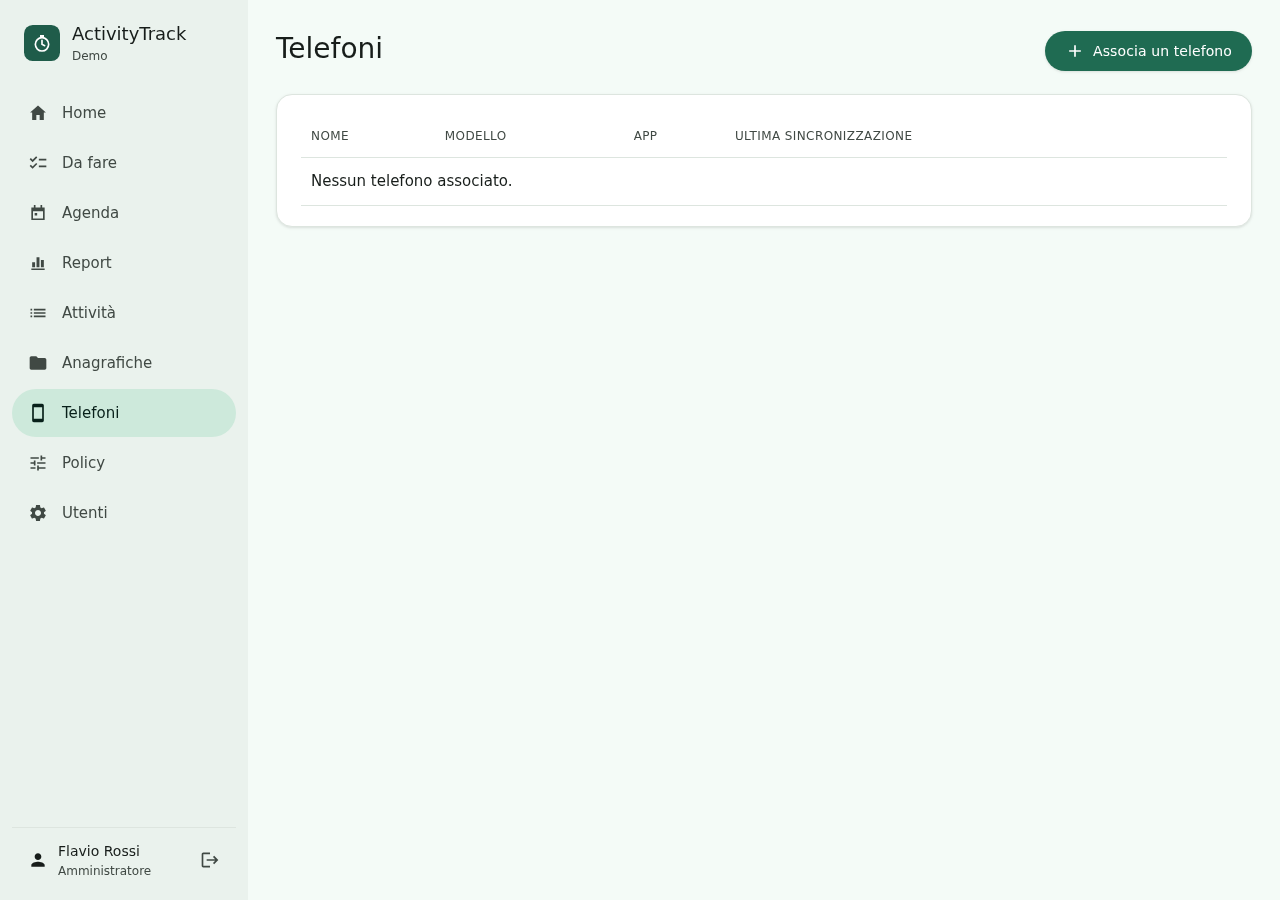
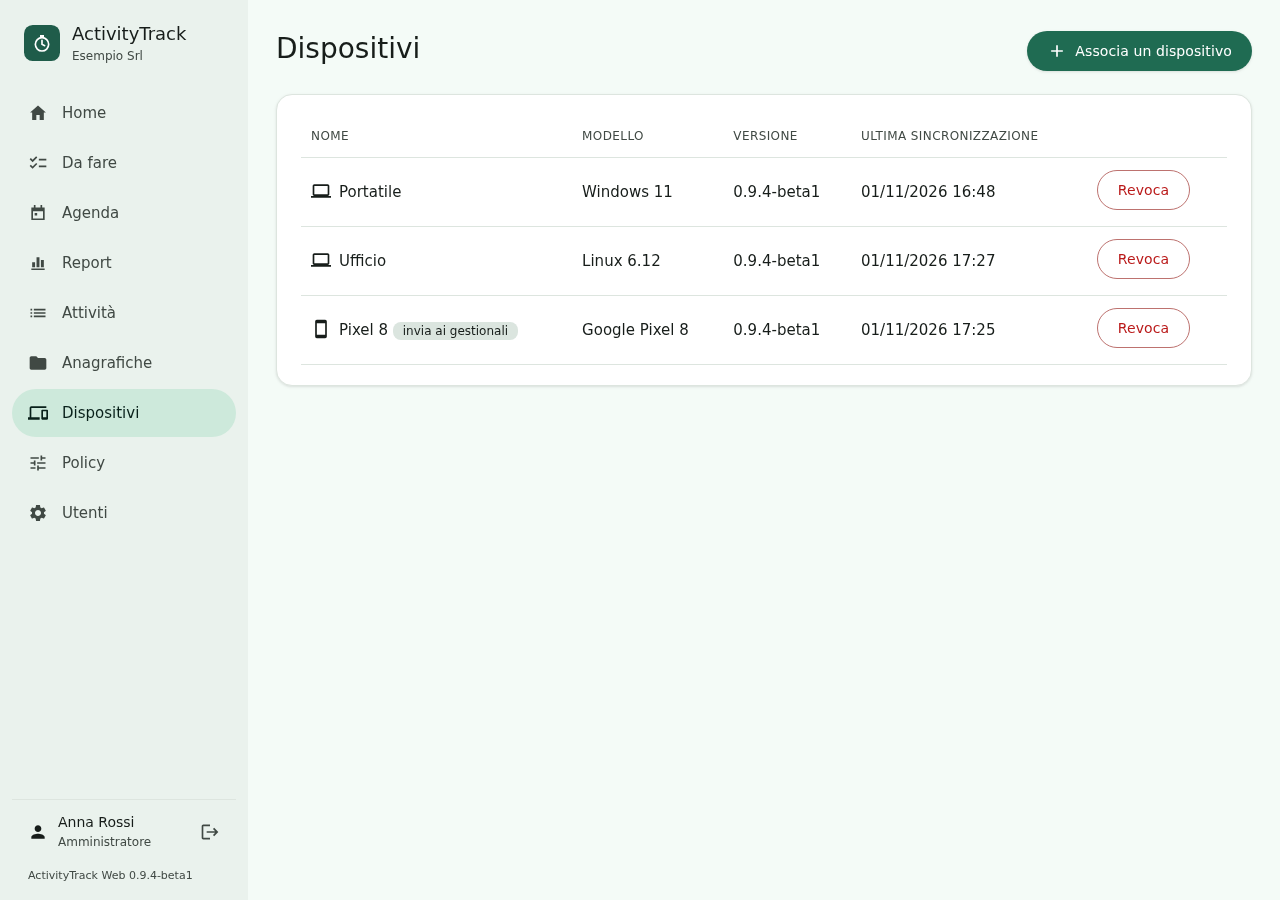
Release 0.9.4-beta1
The devices of #32 (ActivityTrack Desktop), with the beta of the app
and of the desktop. The Dispositivi screenshot of the admin manual is
made again on sample data; an icon in a list's first cell keeps its
distance from the text.

diff --git a/server/web/static/web/app.css b/server/web/static/web/app.css
@@ -149,6 +149,7 @@ table.list th, table.list td { text-align: left; padding: 12px 10px; border-bott
 table.list th { color: var(--muted); font-weight: 500; font-size: 12px; text-transform: uppercase; letter-spacing: .4px; }
 table.list tfoot th { font-size: 14px; text-transform: none; color: var(--text); border-bottom: 0; }
 table.list td form { display: inline-block; margin: 0 4px 4px 0; }
+table.list td > .i:first-child { margin-right: 8px; }
 table.totals td, table.totals th { white-space: nowrap; font-variant-numeric: tabular-nums; }
 tr.dim { opacity: .55; }
 .card > table.list:first-child, .card > h2 + table.list { margin-top: 0; }

diff --git a/server/atweb/__init__.py b/server/atweb/__init__.py
@@ -1,2 +1,2 @@
 # SPDX-License-Identifier: GPL-3.0-or-later
-__version__ = "0.9.3"
+__version__ = "0.9.4-beta1"

diff --git a/docs/INSTALL.md b/docs/INSTALL.md
@@ -25,7 +25,7 @@ Whatever the way, the server needs then: its settings
 On Ubuntu the `universe` component must be enabled (it is by default).
 
 ```sh
-apt install ./activitytrack-web_0.9.3-deb13_all.deb          # Debian 13
+apt install ./activitytrack-web_0.9.4-beta1-deb13_all.deb          # Debian 13
 # Debian 14: -deb14, Ubuntu 24.04: -ubuntu24.04, Ubuntu 26.04: -ubuntu26.04
 apt install python3-psycopg postgresql                        # optional: PostgreSQL instead of SQLite
 ```
@@ -60,7 +60,7 @@ data in `/var/lib/activitytrack-web` (FreeBSD: `/var/db/activitytrack-web`).
 Getting the code, from the tarball:
 
 ```sh
-mkdir -p "$AT" && tar -xzf activitytrack-web-0.9.3.tar.gz -C "$AT" --strip-components=1
+mkdir -p "$AT" && tar -xzf activitytrack-web-0.9.4-beta1.tar.gz -C "$AT" --strip-components=1
 ```
 
 or from the repository (later `git pull`, or `git checkout v<version>` for a
@@ -68,7 +68,7 @@ release):
 
 ```sh
 git clone https://github.com/zipclaude/activitytrack-web "$AT"
-cd "$AT" && git checkout v0.9.3
+cd "$AT" && git checkout v0.9.4-beta1
 ```
 
 After an update of the code: `activitytrack-web-manage migrate`,

diff --git a/docs/manual/it/admin.md b/docs/manual/it/admin.md
@@ -1,4 +1,4 @@
-Versione 0.9.3 (ottobre 2026). Per chi installa e amministra il server
+Versione 0.9.4-beta1 (novembre 2026). Per chi installa e amministra il server
 dell'organizzazione; chi usa l'app trova tutto nel *Manuale* di
 ActivityTrack.
 

diff --git a/docs/manual/en/admin.md b/docs/manual/en/admin.md
@@ -1,4 +1,4 @@
-Version 0.9.3 (October 2026). For whoever installs and runs the
+Version 0.9.4-beta1 (November 2026). For whoever installs and runs the
 organisation's server; users of the app find everything in the ActivityTrack
 *User manual*.
 
